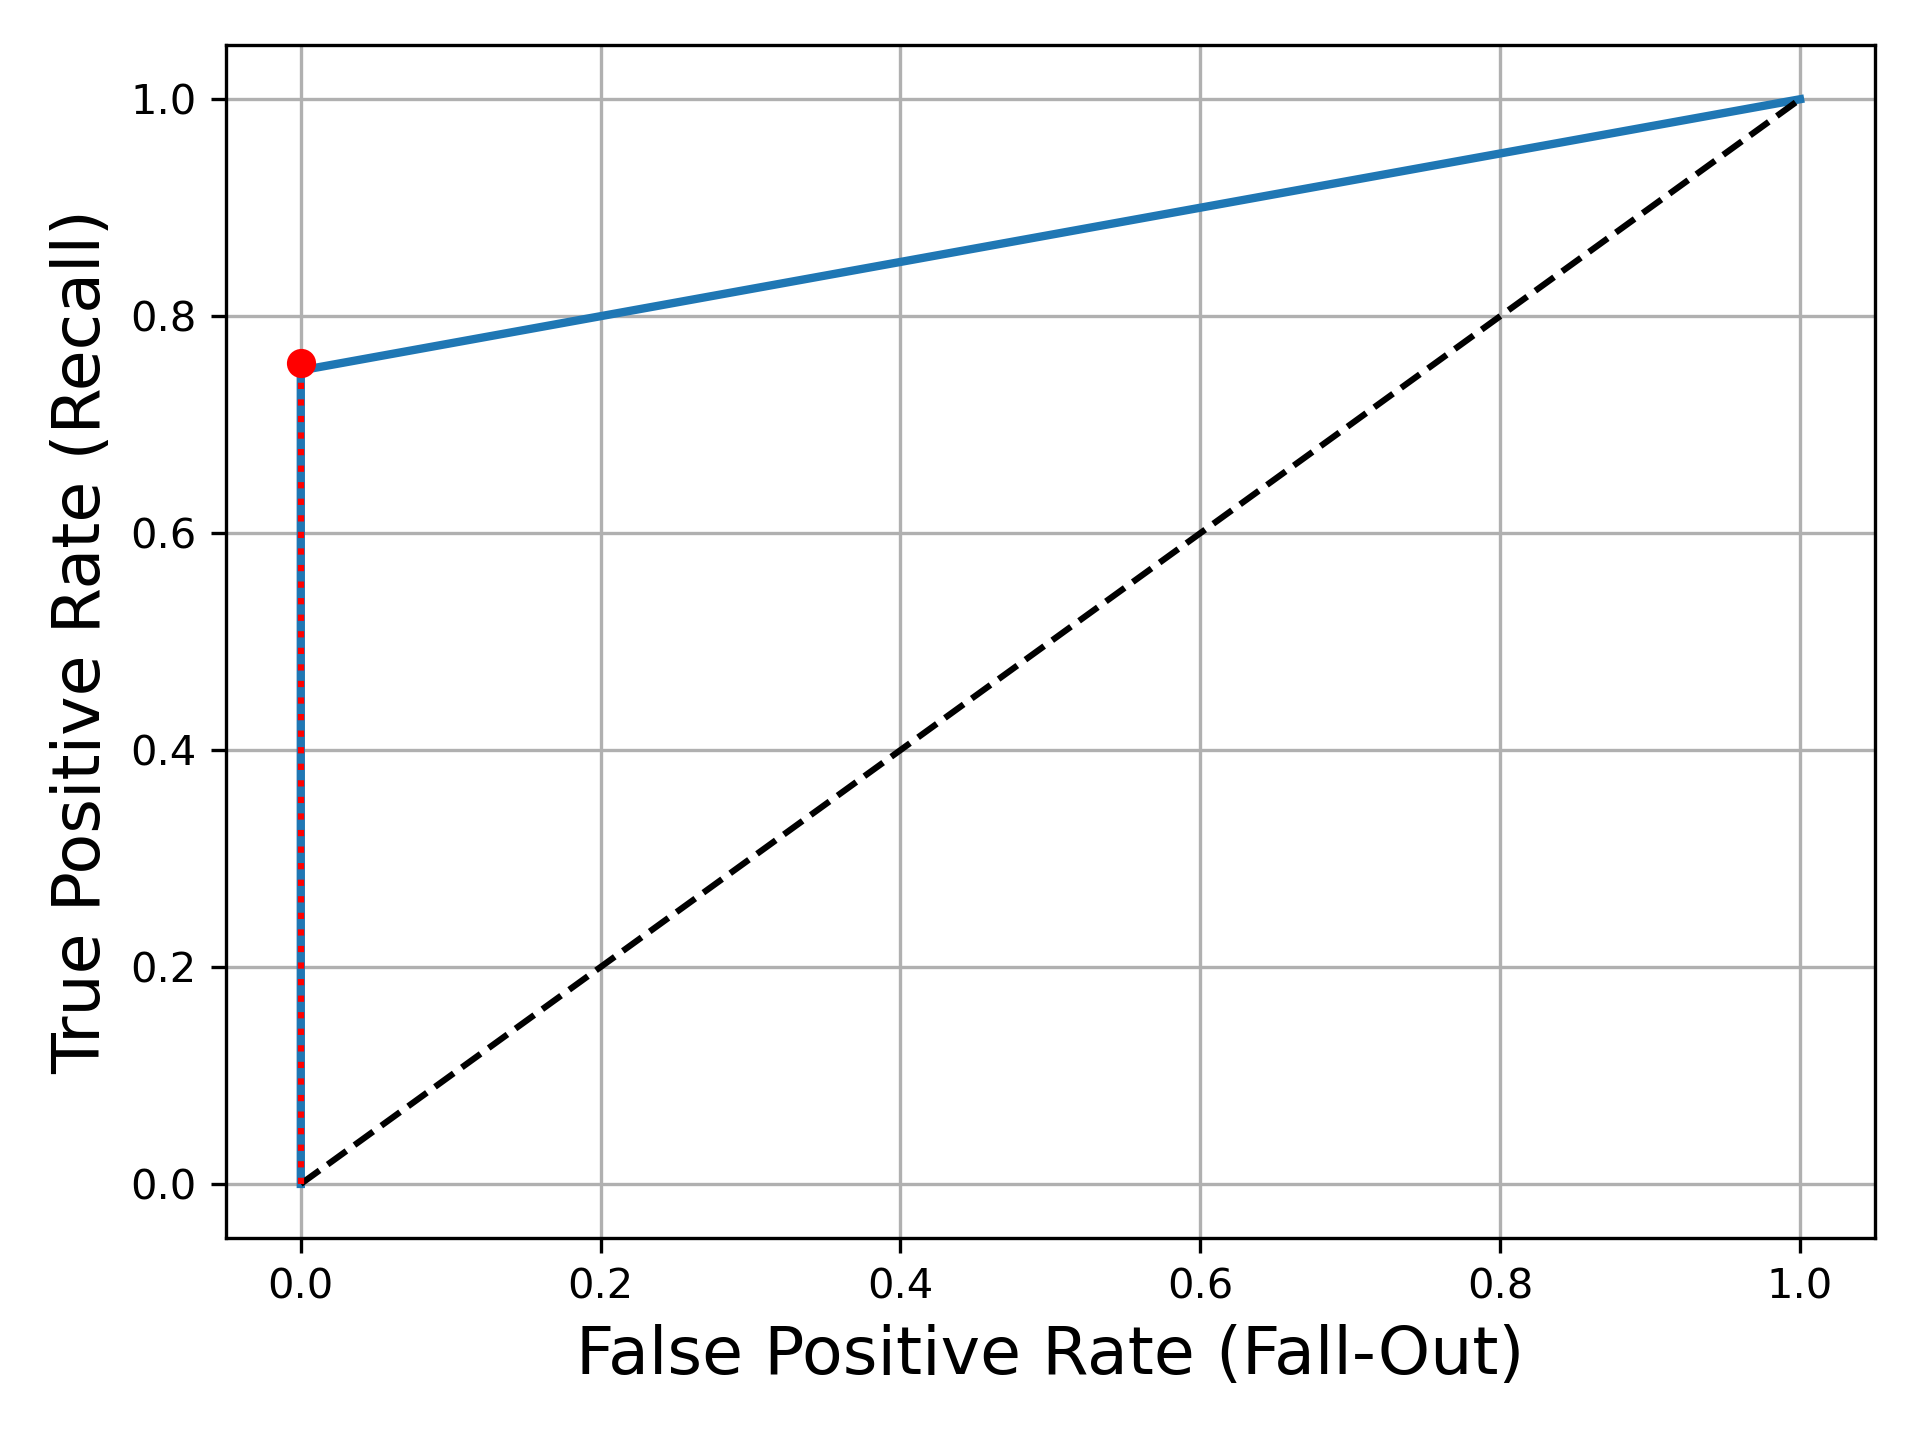
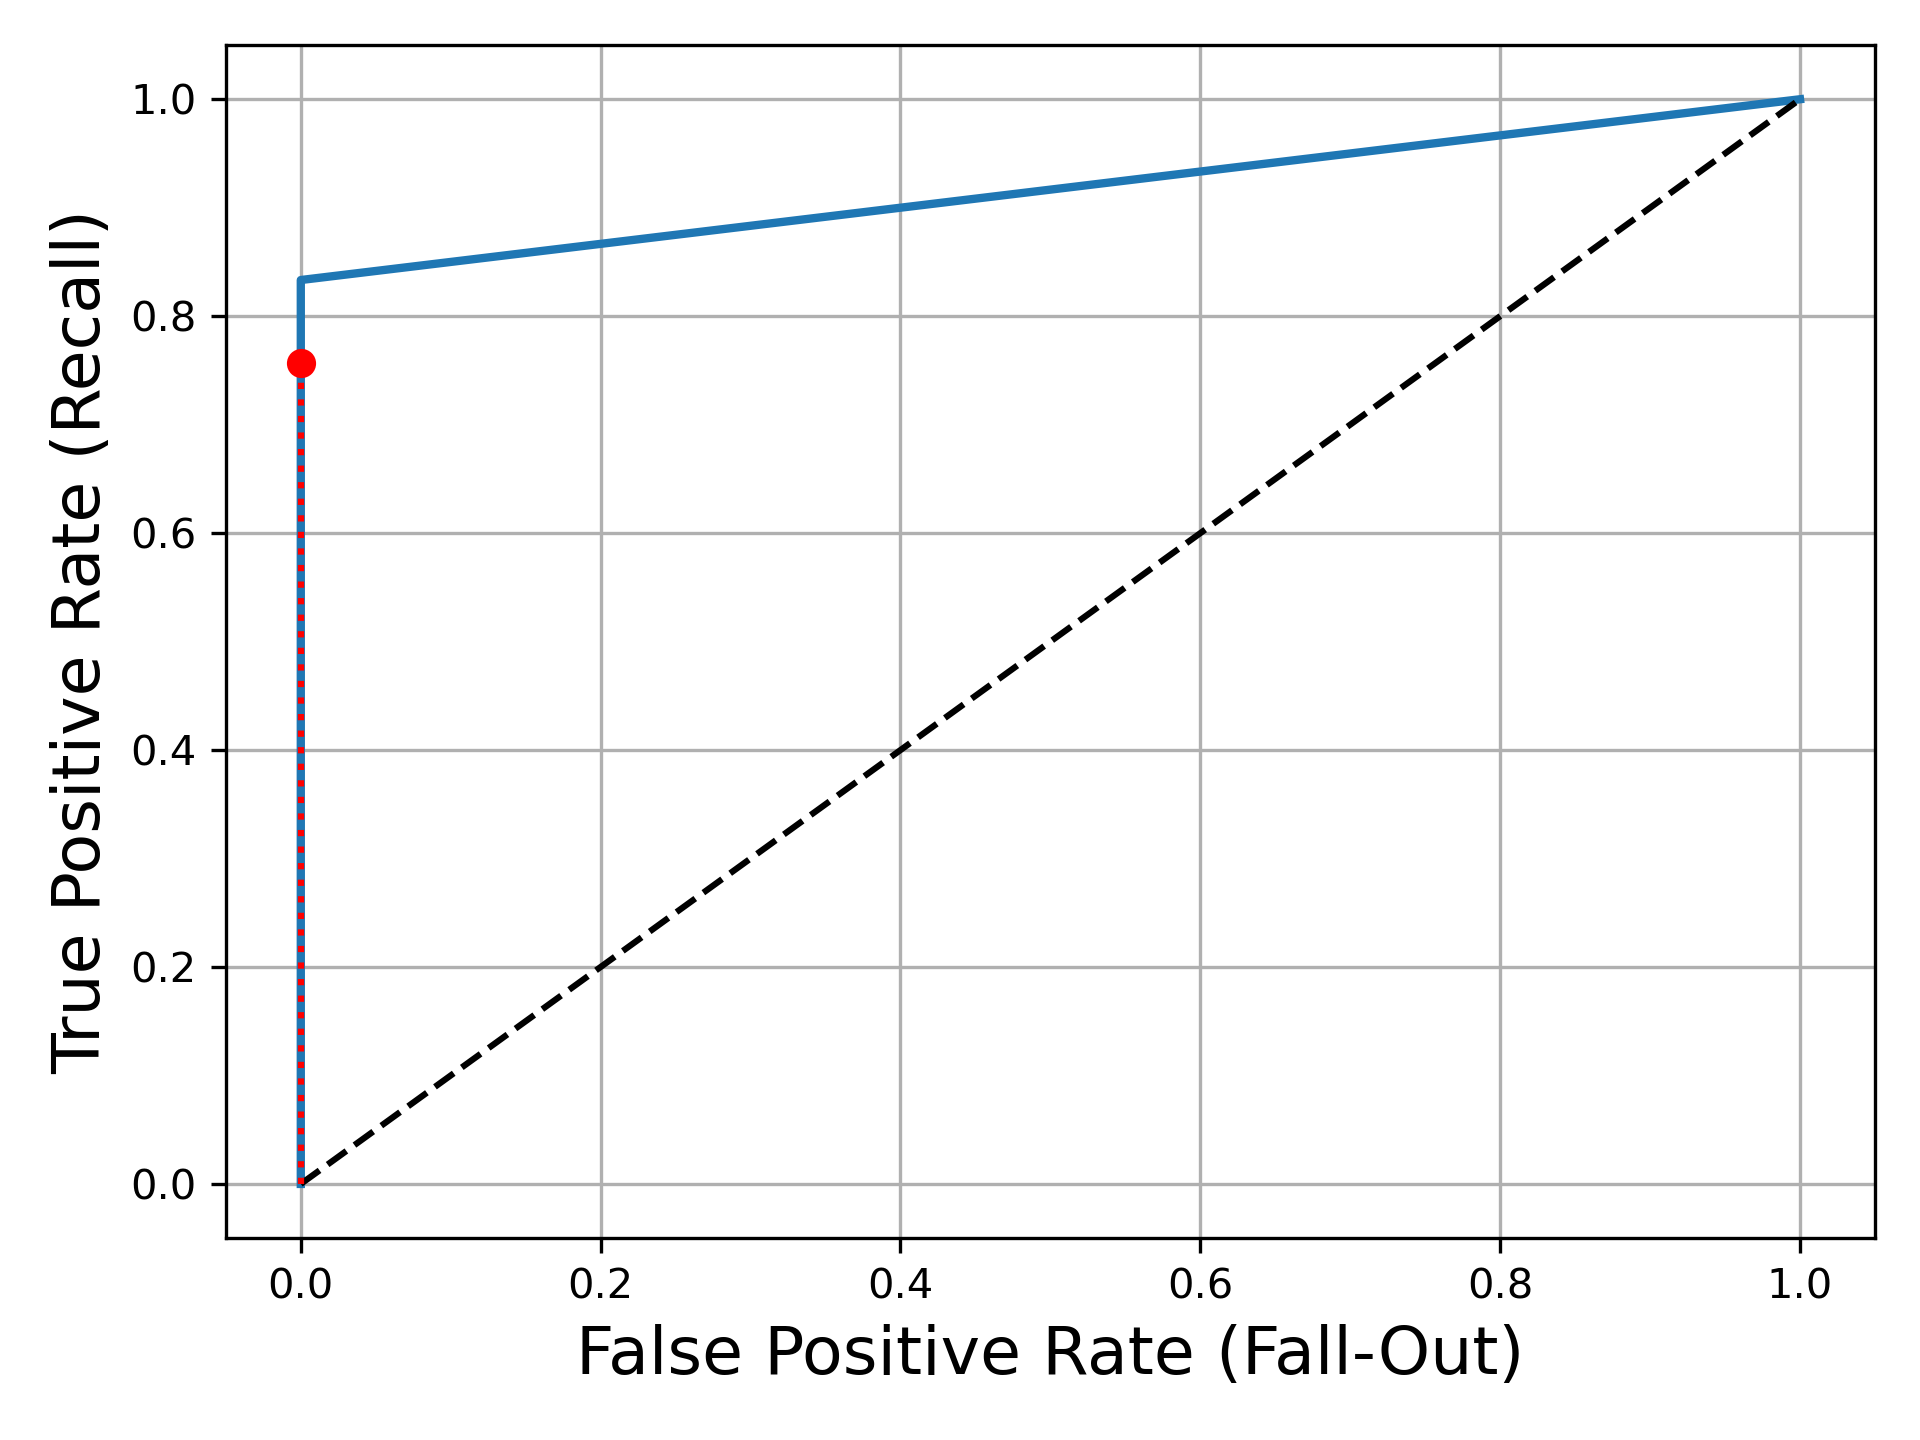
debug 将字符串改成字节串

diff --git a/Classifier.py b/Classifier.py
@@ -1,7 +1,7 @@
 import pandas as pd
 import numpy as np
 from sklearn import tree
-from sklearn.preprocessing import StandardScaler
+# from sklearn.preprocessing import StandardScaler
 # from sklearn.model_selection import train_test_split
 from sklearn.model_selection import cross_val_predict
 from sklearn.metrics import confusion_matrix
@@ -110,17 +110,17 @@ def classifier(feature_csv_file):
     print('recall_score_90=' + str(recall_score_90))
 
     plot_precision_recall_vs_threshold(precisions, recalls, thresholds)
-    plt.plot([0.673364, 0.673364], [0, 0.83822], 'r:')
-    plt.plot([0, 0.673364], [0.83822, 0.83822], 'r:')
-    plt.plot([0.673364], [0.83822], 'ro')
+    # plt.plot([0.673364, 0.673364], [0, 0.83822], 'r:')
+    # plt.plot([0, 0.673364], [0.83822, 0.83822], 'r:')
+    # plt.plot([0.673364], [0.83822], 'ro')
     save_fig("precision_recall_vs_threshold_plot")
     plt.show()
 
     plt.figure(figsize=(8, 6))
     plot_precision_vs_recall(precisions, recalls)
-    plt.plot([0.748487, 0.748487], [0, 1], 'r:')
-    plt.plot([0, 0.748487], [1, 1], 'r:')
-    plt.plot([0.748487], [1], 'ro')
+    # plt.plot([0.748487, 0.748487], [0, 1], 'r:')
+    # plt.plot([0, 0.748487], [1, 1], 'r:')
+    # plt.plot([0.748487], [1], 'ro')
     save_fig("plot_precision_vs_recall")
     plt.show()
 
@@ -128,8 +128,8 @@ def classifier(feature_csv_file):
     roc_auc = roc_auc_score(train_labels, y_scores_tree)
     print("roc_auc: " + str(roc_auc))
     plot_roc_curve(fpr, tpr)
-    plt.plot([0, 0], [0, 0.757218], 'r:')
-    plt.plot([0, 0], [0.757218, 0.757218], 'r:')
-    plt.plot([0], [0.757218], 'ro')
+    # plt.plot([0, 0], [0, 0.757218], 'r:')
+    # plt.plot([0, 0], [0.757218, 0.757218], 'r:')
+    # plt.plot([0], [0.757218], 'ro')
     save_fig("plot_roc_curve")
     plt.show()

diff --git a/LevenshteinDistanceCalculator.py b/LevenshteinDistanceCalculator.py
@@ -51,12 +51,12 @@ class LevenshteinDistanceCalculator():
                     if has_icmp_request:  # 初始化distance不添加到列表中
                         distance_in_ICMP_pair_list.append(
                             distance_in_ICMP_pair)
-                    request_icmp_payload = str(icmp_packet.payload.original)
+                    request_icmp_payload = icmp_packet.payload.original
                     has_icmp_request = True
                     distance_in_ICMP_pair = 0
 
                 elif has_icmp_request and icmp_type == 0:
-                    reply_icmp_payload = str(icmp_packet.payload.original)
+                    reply_icmp_payload = icmp_packet.payload.original
 
                 if request_icmp_payload != b'' and reply_icmp_payload != b'':
                     distance_in_ICMP_pair += self.normal_leven(
@@ -85,7 +85,7 @@ class LevenshteinDistanceCalculator():
                 if icmp_type == type_code:
 
                     prev = packet_payload
-                    packet_payload = str(icmp_packet.payload.original)
+                    packet_payload = icmp_packet.payload.original
 
                     if prev != b'' and packet_payload != b'':
 

diff --git a/main.py b/main.py
@@ -3,7 +3,7 @@ from Classifier import classifier
 
 if __name__ == "__main__":
 
-    extractFeatures = True
+    extractFeatures = False
     if extractFeatures:
 
         featureExtractor = FeatureExtractor()
